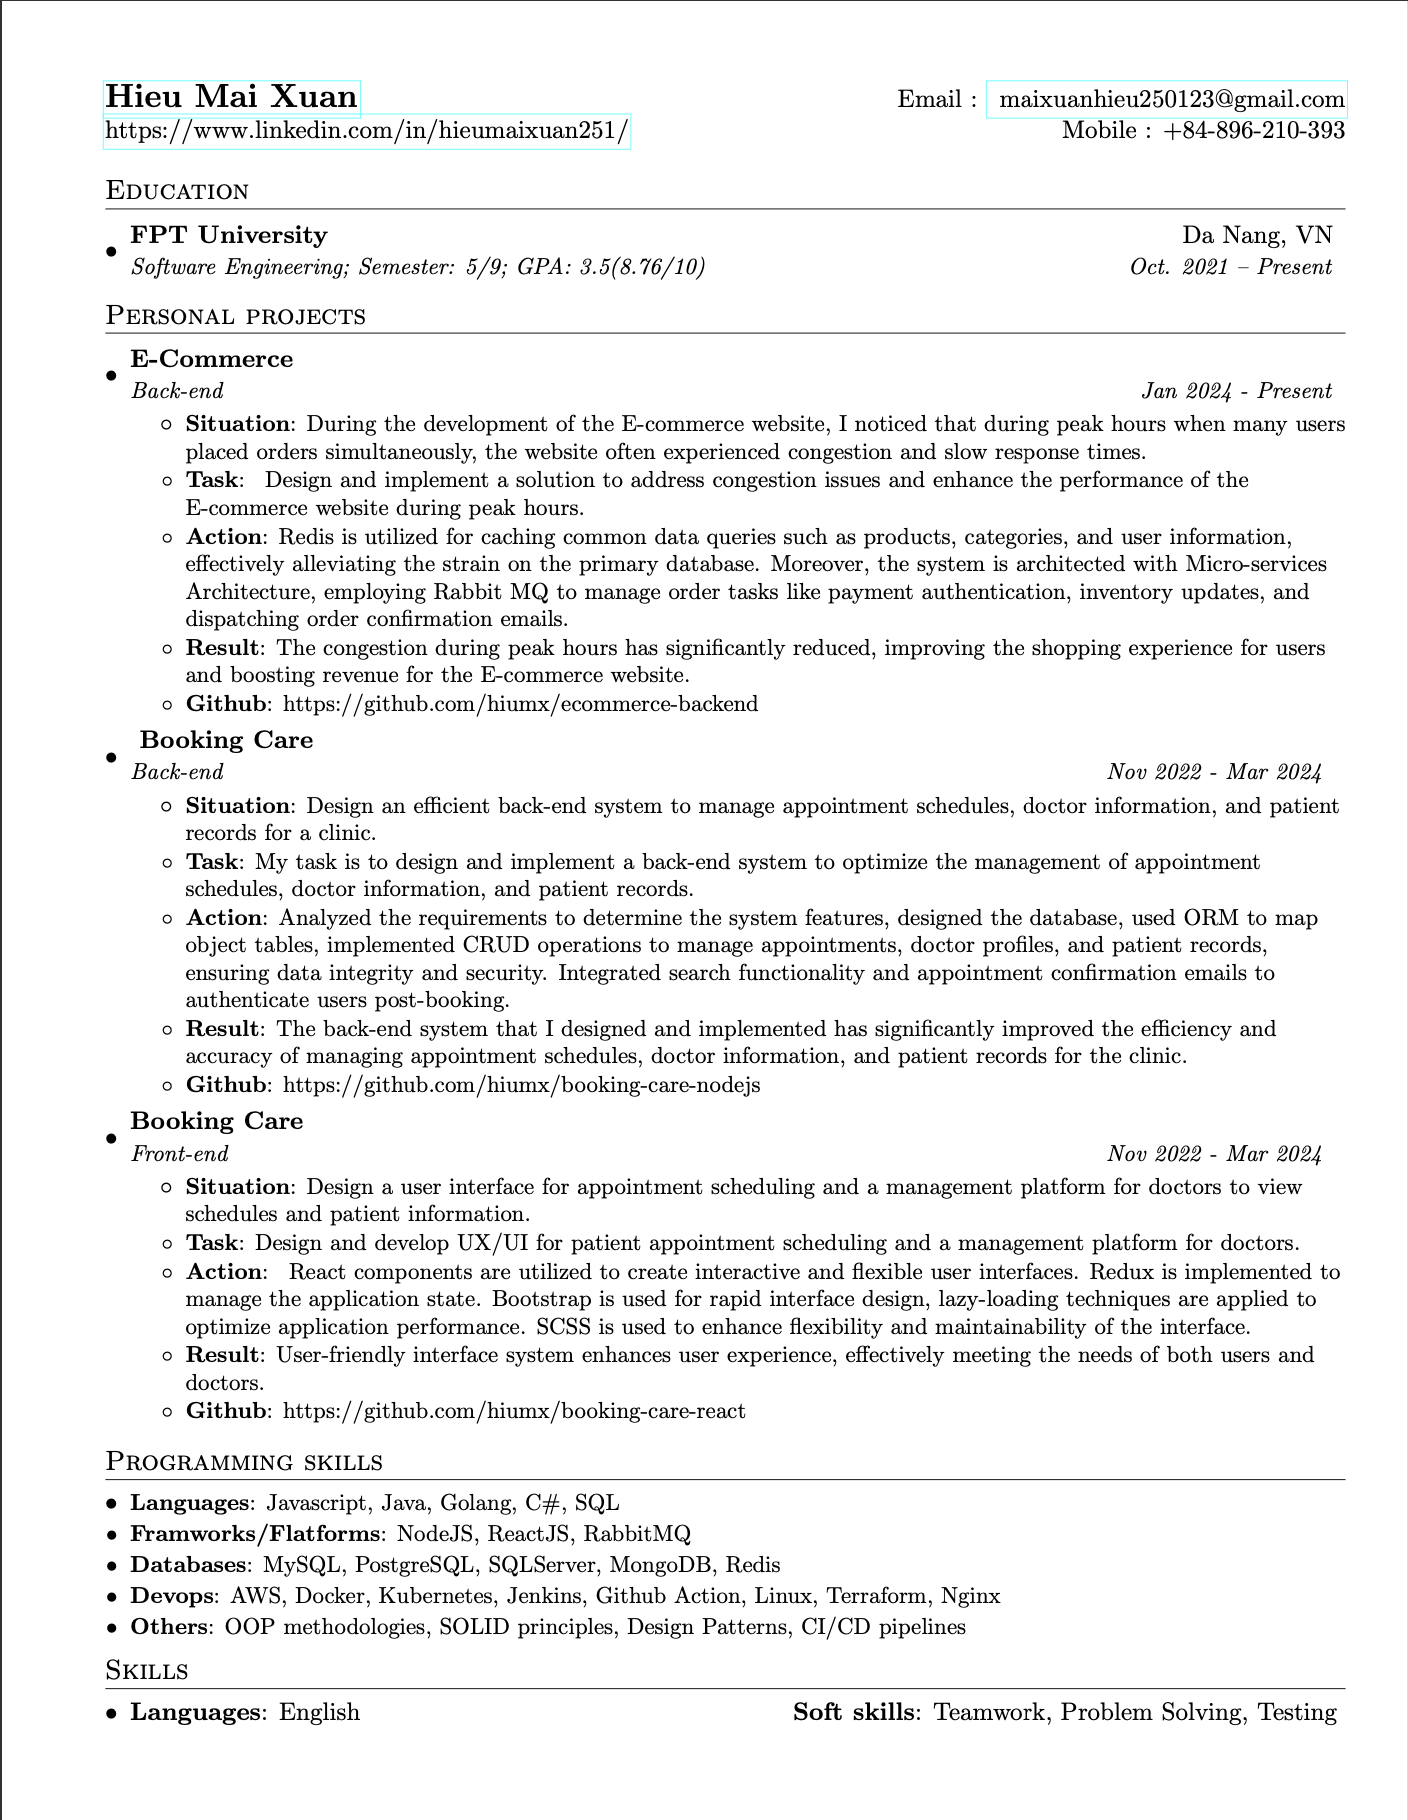
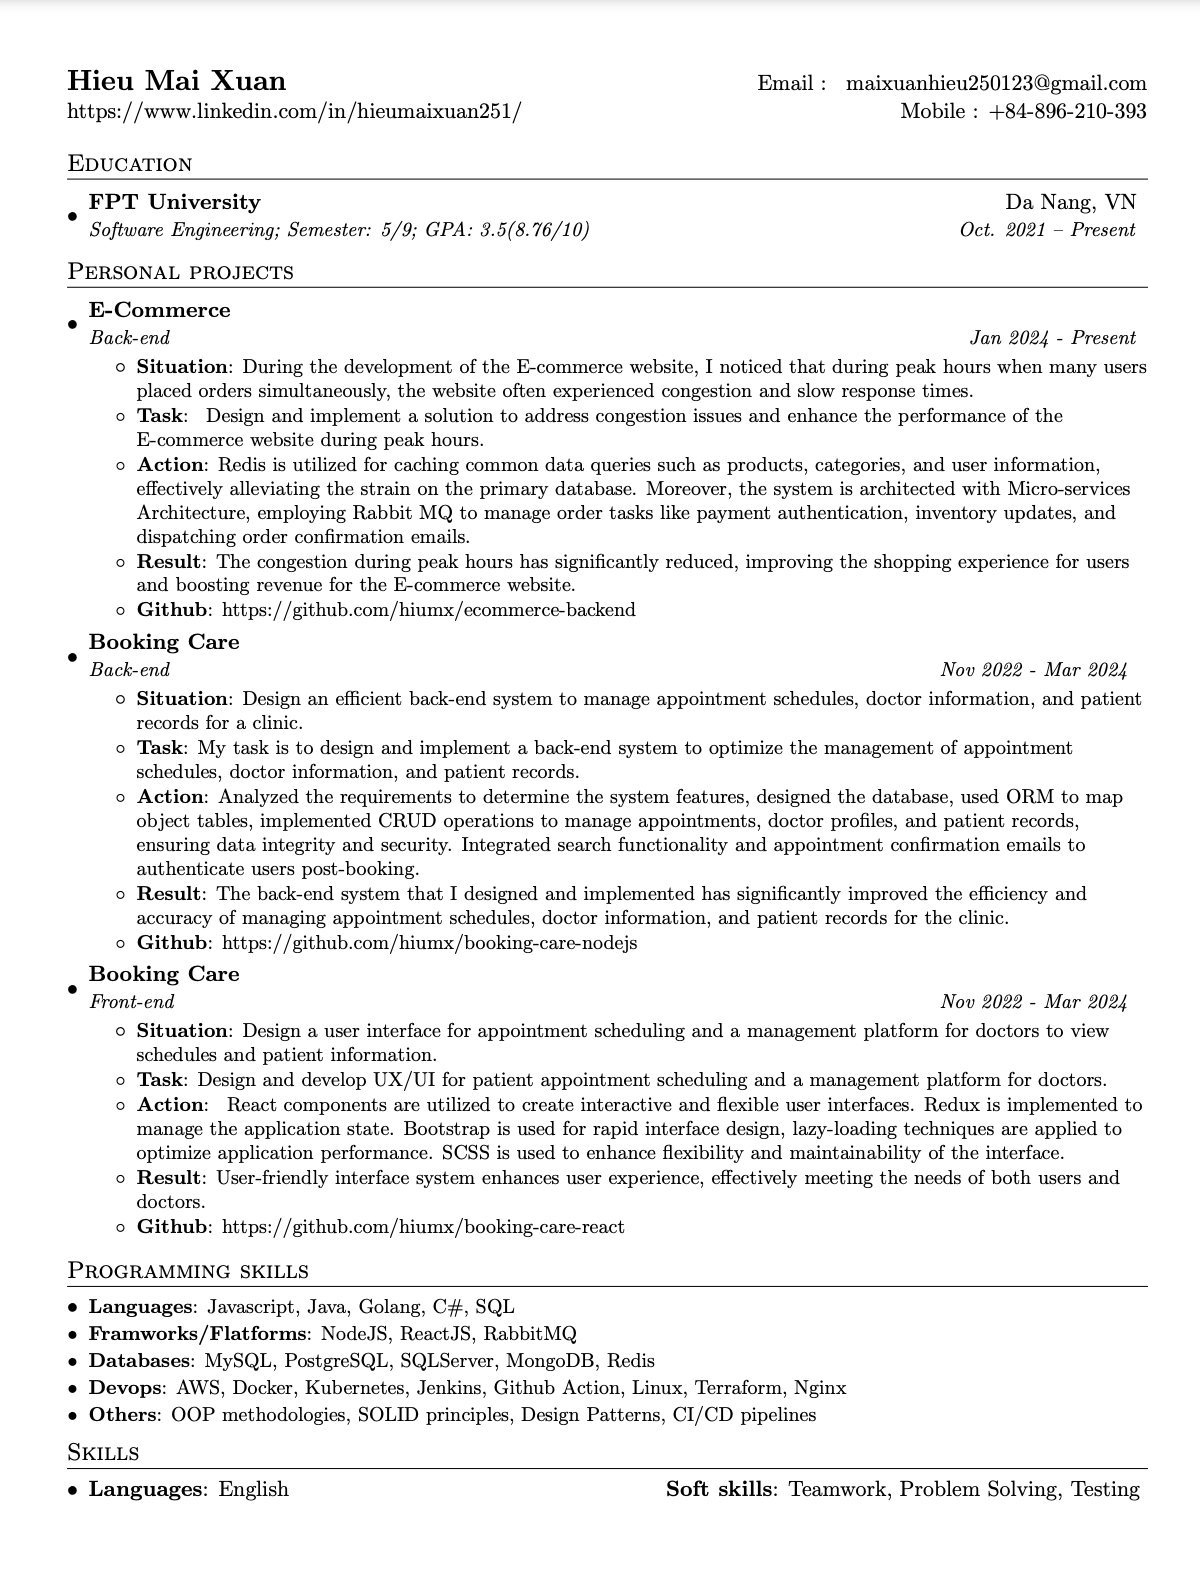
Change resume image v2 and modify README file

Changed region(s): [[0.0617, 0.031, 0.9558, 0.9602], [0.555, 0.9292, 0.9558, 0.9602]]

diff --git a/README.md b/README.md
@@ -49,4 +49,4 @@
     <img src="https://cultofthepartyparrot.com/parrots/hd/scienceparrot.gif" width="30" height="30"/>
 </div>
 
-![my-cv-img](https://github.com/hiumx/hiumx/blob/main/images/my-cv-v3.png)
+![my-cv-img](https://github.com/hiumx/hiumx/blob/main/images/my-cv-v4.png)
